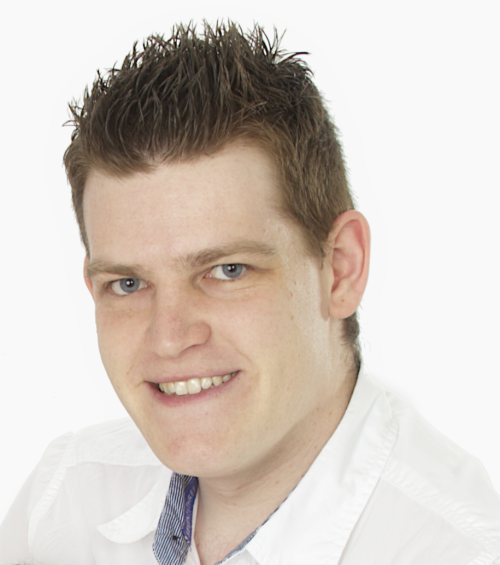
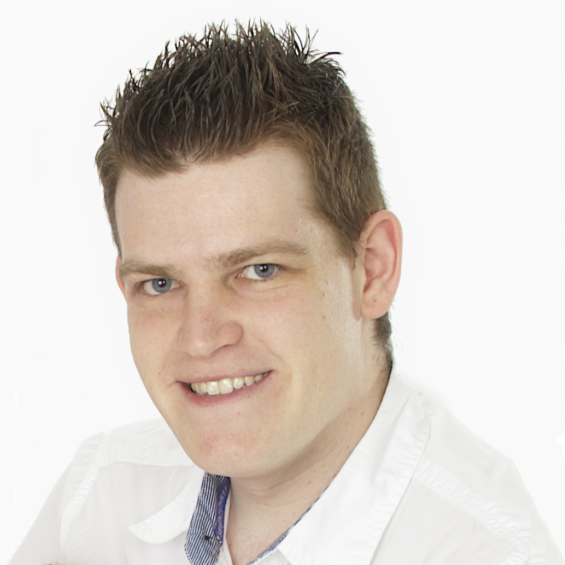
Content fixes

diff --git a/_layouts/post.html b/_layouts/post.html
@@ -35,12 +35,15 @@
                         <p class="devide-top">
                             {{ content }}
                         </p>
-                        {% if post.comments %}
+                        
                         <p class="devide-top">
+                            <div class="addthis_inline_share_toolbox"></div>
+                            {% if post.comments %}
                             <div id="disqus_thread"></div>
                             <noscript>Please enable JavaScript to view the <a href="https://disqus.com/?ref_noscript">comments powered by Disqus.</a></noscript>
+                            {% endif %}
                         </p>
-                        {% endif %}
+                        
                         <p>
                             <div class="pull-left">
                                 {% if post.previous.url %}

diff --git a/css/styles.css b/css/styles.css
@@ -18,7 +18,7 @@ body {
 
 .container-rounded {
     border-radius: 10px;
-    box-shadow: 0 0 15px rgba(1, 1, 1, 0.7);
+    box-shadow: 0 0 20px grey;
     background-color: #FFFFFF;
     padding: 15px;
 }
@@ -73,8 +73,10 @@ body {
 
         .sidebar .aboutme .avatar {
             height: 150px;
+            width: 150px;
             border-radius: 50%;
-            padding-bottom: 10px;
+            margin-bottom: 10px;
+            box-shadow: 0 0 10px grey;
         }
 
     .sidebar .recentPosts {
@@ -111,7 +113,7 @@ body {
 }
 
     .fa.fa-twitter {
-        background: #55ACEE;
+        background: #1DA1F2;
         color: #FFFFFF;
     }
 
